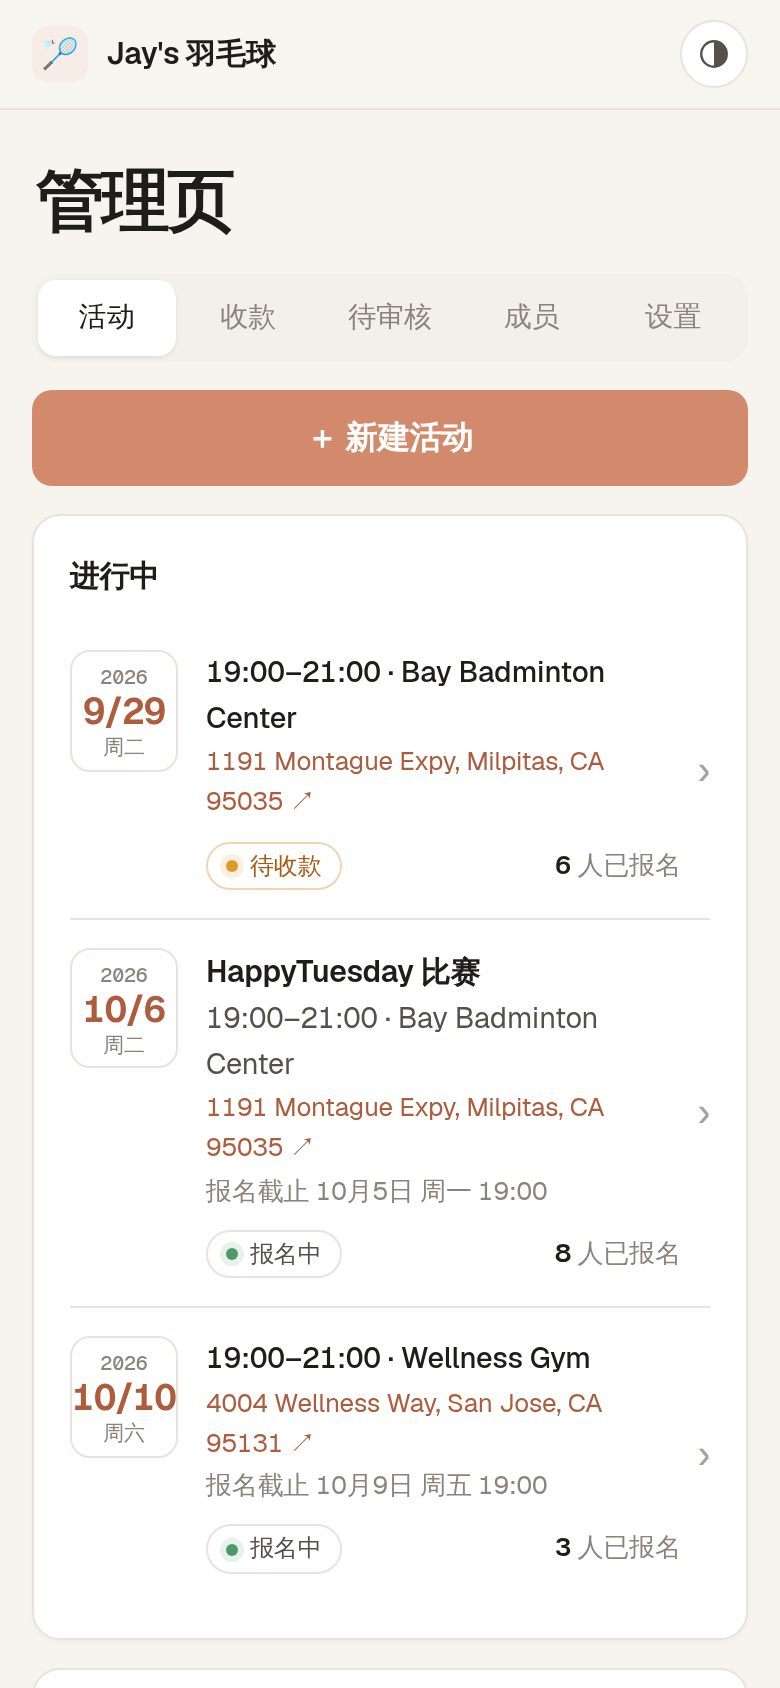
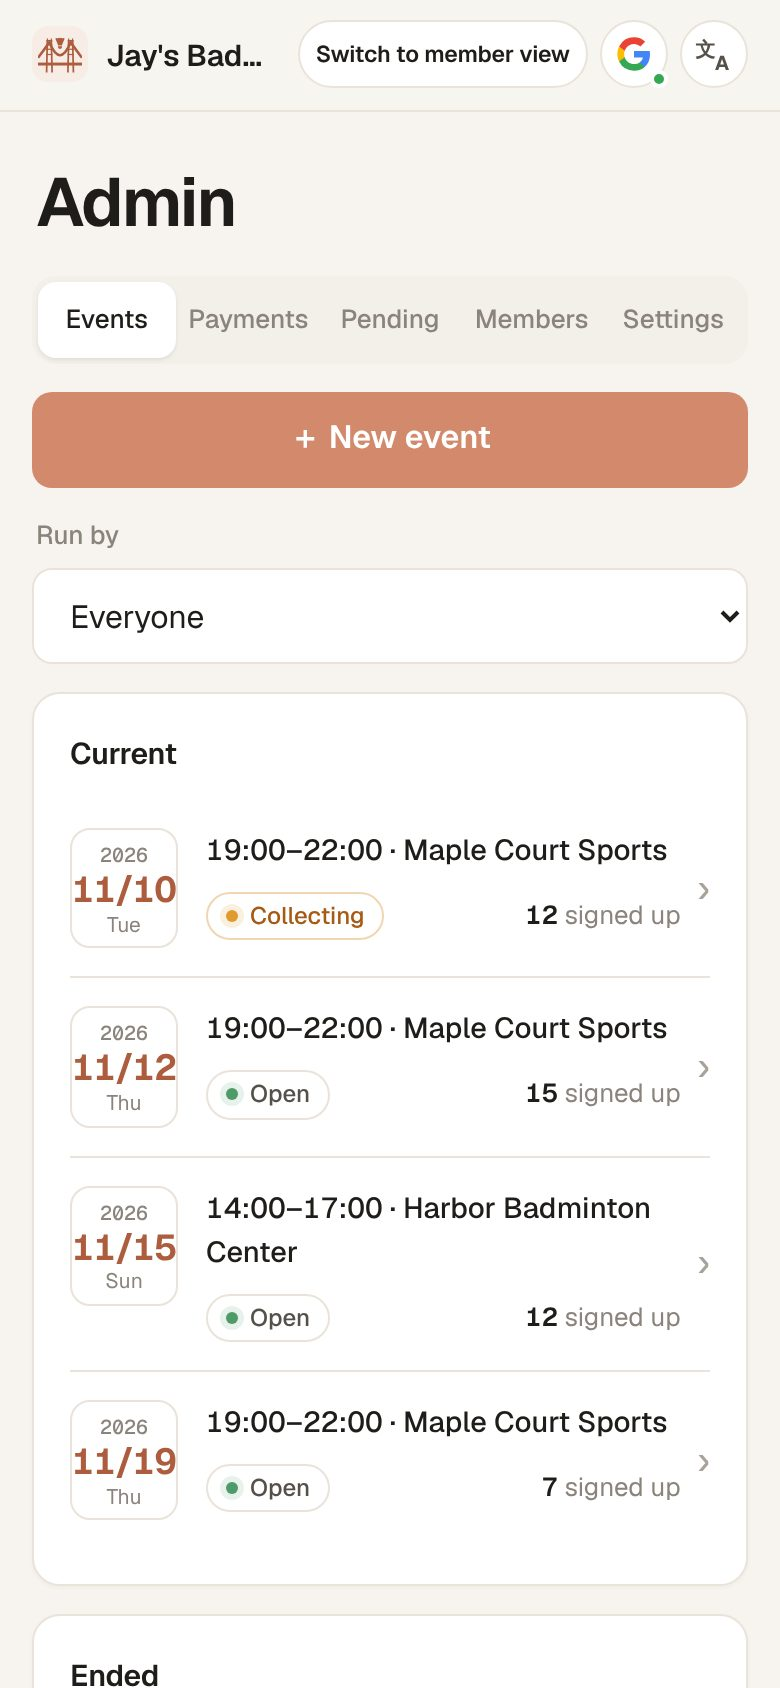
README: English screenshots with demo data
Claude-Session: https://claude.ai/code/session_01UTCfVg7Rd46zcxbgoYeVfq

diff --git a/README.md b/README.md
@@ -7,6 +7,21 @@ Sign-ups, rosters, fees and payments for badminton groups, in one mobile-first w
 - **Other groups' sites**: https://sbbc.llmat.dev, https://bewithyou.llmat.dev, https://coco.llmat.dev
 - **Release admin site**: https://badminton.llmat.dev (maintainer only)
 
+<table>
+  <tr>
+    <td align="center"><img src="docs/screenshots/events.jpg" width="240" alt="My events"><br><sub>My events: sign-up status and the live court queue</sub></td>
+    <td align="center"><img src="docs/screenshots/bill.jpg" width="240" alt="Bill"><br><sub>The bill: one tap to pay with Venmo</sub></td>
+    <td align="center"><img src="docs/screenshots/leaderboard.jpg" width="240" alt="Leaderboard"><br><sub>Leaderboards and past events</sub></td>
+  </tr>
+  <tr>
+    <td align="center"><img src="docs/screenshots/profile.jpg" width="240" alt="Profile"><br><sub>Profile: yearly review and milestones</sub></td>
+    <td align="center"><img src="docs/screenshots/admin-events.jpg" width="240" alt="Admin events"><br><sub>Admin view: all events</sub></td>
+    <td align="center"><img src="docs/screenshots/admin-payments.jpg" width="240" alt="Payment board"><br><sub>Admin view: payment board of one event</sub></td>
+  </tr>
+</table>
+
+Screenshots use demo data; the names, venues and accounts are made up.
+
 ---
 
 ## 1. Introduction
